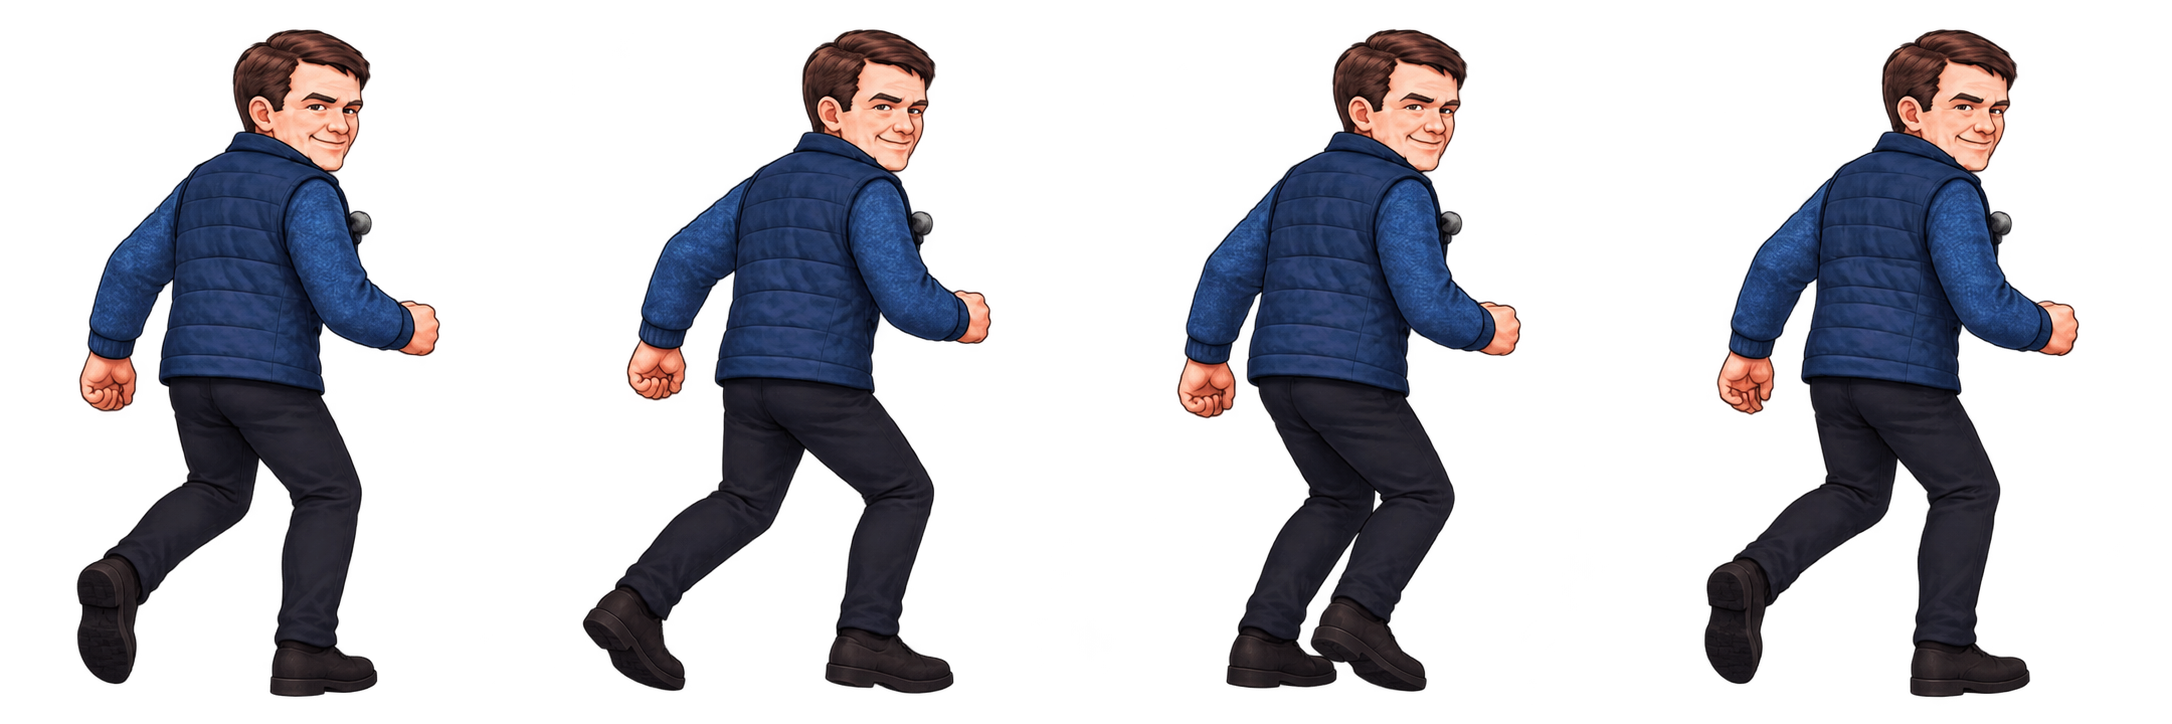
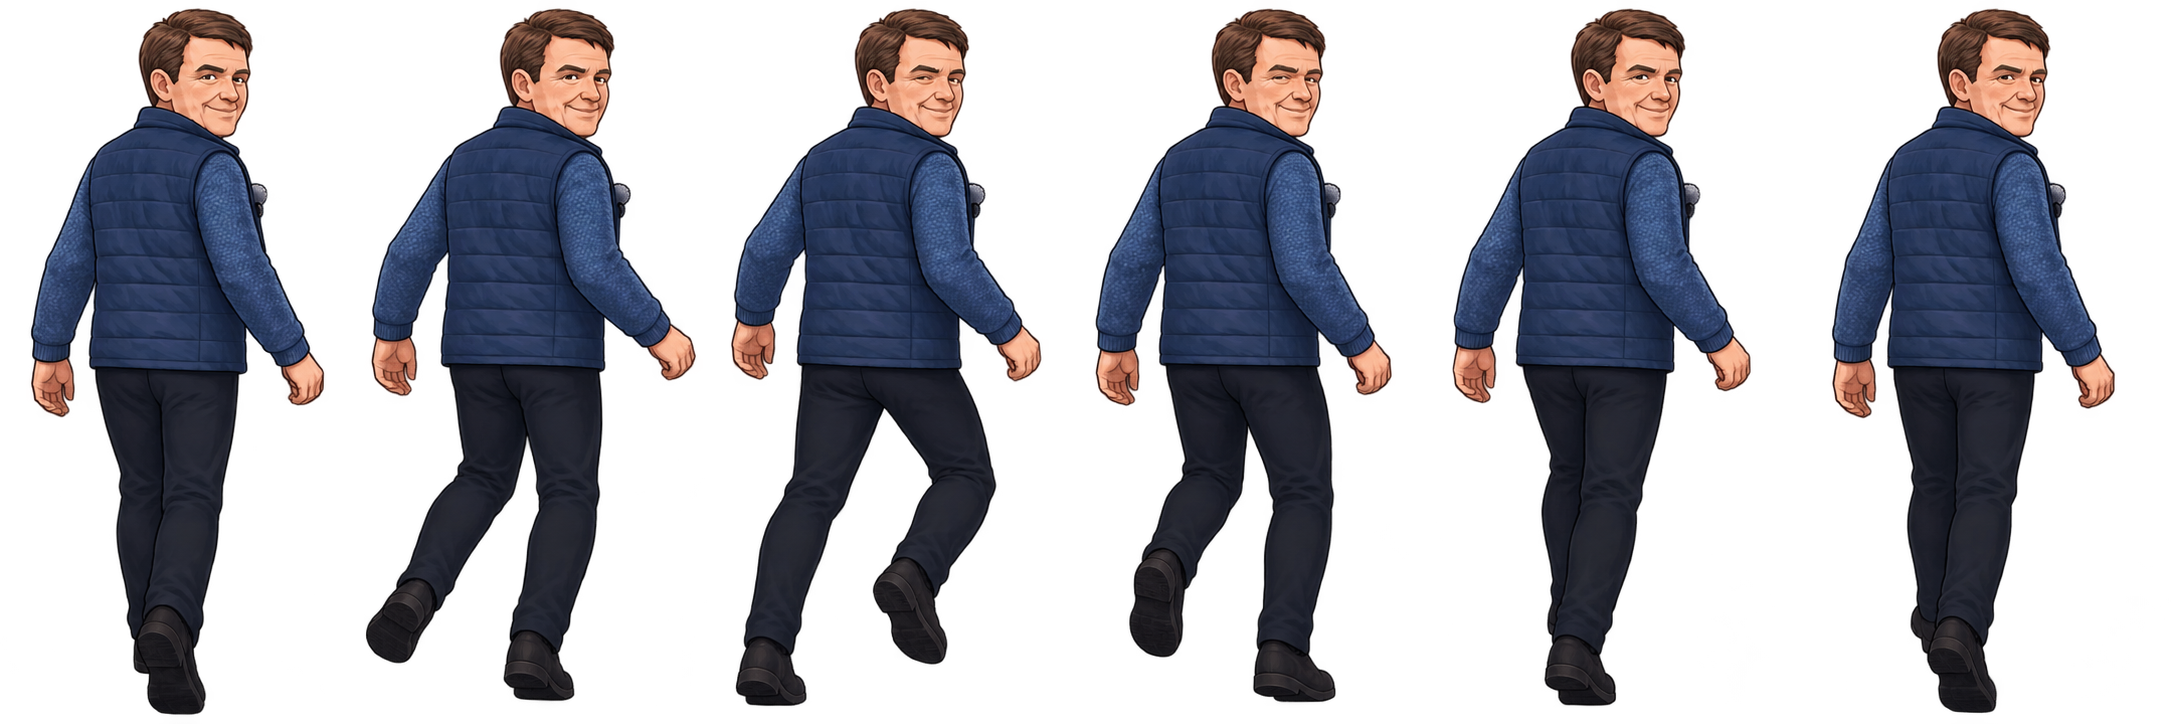
Calibrate Gary sidestep width in the active runtime

diff --git a/game-runtime.js b/game-runtime.js
@@ -141,11 +141,13 @@ let shutterMix = 0;
   const imgCheer = loadGary(GARY_SPRITES.cheer);
   const imgCrash = loadGary(GARY_SPRITES.crash);
 
-  // GarySmoothSidestepFourFramesV4 — frame visibility independent from lane travel.
+  // Six-frame sidesteps — frame visibility independent from lane travel.
   // GaryApprovedSidesteps20261016V1
-  const SIDE_FRAMES = 4, SIDE_W = 543, SIDE_H = 724;
+  const SIDE_FRAMES = 6, SIDE_W = 362, SIDE_H = 724;
+  // GarySixFrameWidth20261017V2 — width only; preserve height and foot alignment.
+  const SIDE_WIDTH_SCALE = 0.89;
   // GarySidestepVisibleHeight20261016V3
-  const SIDE_ANIM_SECONDS = 0.32; // Four frames, 80 ms each; lane travel is independent.
+  const SIDE_ANIM_SECONDS = 0.32; // Six frames, about 53 ms each.
   let sideAnimTime = SIDE_ANIM_SECONDS, sideAnimDir = 0;
   const imgSideLeft = new Image(), imgSideRight = new Image();
   const sideArt = { left: false, right: false, anchors: [[], []], visibleHeights: [0.5, 0.5], walkFoot: 0.975, walkTop: 0.02 };
@@ -183,7 +185,7 @@ let shutterMix = 0;
     img.ready = false;
     img.onload = () => {
       if(img.naturalWidth!==SIDE_FRAMES*SIDE_W || img.naturalHeight!==SIDE_H){
-        loadErrorLog.push(file+': expected a 2172 x 724, four-frame sheet');
+        loadErrorLog.push(file+': expected a 2172 x 724, six-frame sheet');
         return;
       }
       const anchors=[];
@@ -196,7 +198,7 @@ let shutterMix = 0;
       sideArt[key]=true;
     };
     img.onerror=()=>loadErrorLog.push(file+': missing; using walking animation');
-    img.src=file+'?v=approved20261016';
+    img.src=file+'?v=sixframewidth20261017v2';
   }
   prepareSideImage(imgSideLeft,'left','gary_sidestep_left.png');
   prepareSideImage(imgSideRight,'right','gary_sidestep_right.png');
@@ -1646,15 +1648,15 @@ let shutterMix = 0;
       const w=h*single.naturalWidth/single.naturalHeight;
       ctx.drawImage(single,-w/2,-h+WORLD.playerFootOffset,w,h);
     } else if(pose){
-      // Four consecutive frames across the whole eased sidestep; no crossfaded ghosts.
+      // Six consecutive frames across the sidestep; no crossfaded ghosts.
       const fraction=Math.min(0.999999,view.sideTime/SIDE_ANIM_SECONDS);
-      const frame=Math.min(3,Math.floor(fraction*SIDE_FRAMES));
+      const frame=Math.min(SIDE_FRAMES-1,Math.floor(fraction*SIDE_FRAMES));
       const anchor=sideArt.anchors[direction<0?0:1][frame]||{torso:0.5,foot:0.96};
       // Match the walking sprite's full hair-to-shoe height, excluding padding.
       // One scale for the whole direction preserves frame-to-frame body proportions.
       const sheetVisible=sideArt.visibleHeights[direction<0?0:1];
       const poseH=h*(sideArt.walkFoot-sideArt.walkTop)/sheetVisible;
-      const w=poseH*SIDE_W/SIDE_H;
+      const w=poseH*SIDE_W/SIDE_H*SIDE_WIDTH_SCALE;
       // Align the shirt/torso centre and shoe baseline to the walking sprites.
       const x=-w*anchor.torso;
       const y=-h+WORLD.playerFootOffset+h*sideArt.walkFoot-poseH*anchor.foot;

diff --git a/index.html b/index.html
@@ -111,6 +111,6 @@
 <!-- GarySidestepSmoothPrevious=game-sidestep-test.js?v=1 -->
 <!-- GarySidestepNoGhostPrevious=game-sidestep-smooth.js?v=1 -->
 <!-- GARY_PICKUP_SFX_INDEX_V1: game-sidestep-no-ghost.js -->
-<script src="game-runtime.js?v=1"></script>
+<script src="game-runtime.js?v=sixframewidth20261017v2&width=89"></script>
 </body>
 </html>
